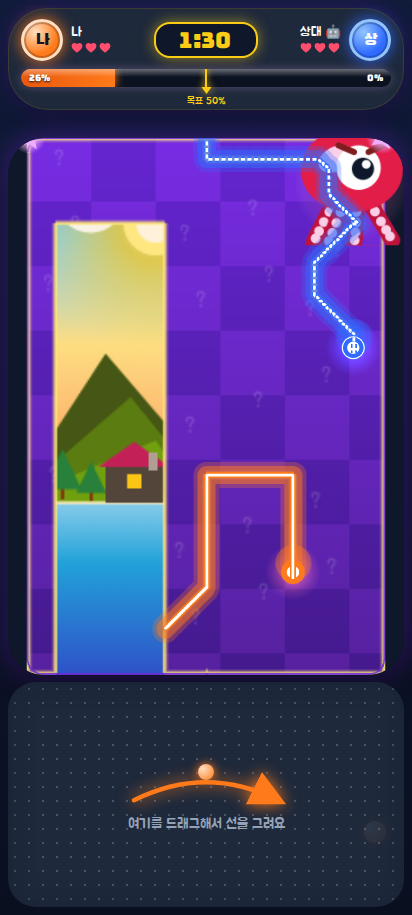
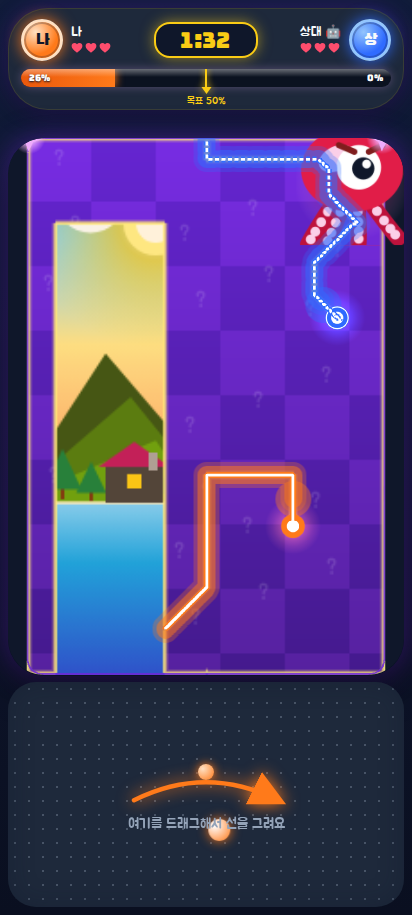
fix: stop the Graphics core short of the orb so the ring stays visible
Trim the last 10 CSS px of the opaque core so the cutter disc is not
painted over. Prefer near-orb samples that are both 14–36px glow and
in-band solid/white. Local trail e2e 30/30.

diff --git a/packages/client/src/main.ts b/packages/client/src/main.ts
@@ -1180,10 +1180,32 @@ class GameScene extends Phaser.Scene {
     gfx.clear();
     const orangeW = TRAIL_ORANGE_CSS;
     const whiteW = TRAIL_WHITE_CSS;
-    this.strokeTrailGfx(gfx, trail1, orangeW, AH.me, false);
+    this.strokeTrailGfx(gfx, this.trimTrailTip(trail1, 10), orangeW, AH.me, false);
     this.strokeTrailGfx(gfx, trail2, orangeW, AH.foe, true);
-    this.strokeTrailGfx(gfx, trail1, whiteW, 0xffffff, false);
+    this.strokeTrailGfx(gfx, this.trimTrailTip(trail1, 10), whiteW, 0xffffff, false);
     this.strokeTrailGfx(gfx, trail2, whiteW, 0xffffff, true);
+  }
+
+  /** Stop the core just short of the cutter so the orb ring stays measurable. */
+  private trimTrailTip(trail: { x: number; y: number }[], cssCut: number): { x: number; y: number }[] {
+    if (trail.length < 2) return trail;
+    const unit = this.boardImage?.scaleX || 1;
+    let remain = cssCut / unit;
+    const out = trail.map((p) => ({ x: p.x, y: p.y }));
+    while (out.length >= 2 && remain > 0) {
+      const a = out[out.length - 2];
+      const b = out[out.length - 1];
+      const len = Math.hypot(b.x - a.x, b.y - a.y);
+      if (len <= remain) {
+        remain -= len;
+        out.pop();
+      } else {
+        const t = (len - remain) / len;
+        out[out.length - 1] = { x: a.x + (b.x - a.x) * t, y: a.y + (b.y - a.y) * t };
+        remain = 0;
+      }
+    }
+    return out;
   }
 
   private strokeTrailGfx(

diff --git a/tests/e2e/cover-layout.spec.ts b/tests/e2e/cover-layout.spec.ts
@@ -440,11 +440,15 @@ async function measureRenderedTrail(page: Page): Promise<TrailMeasure> {
         cands.push({ solid, glow: best.glow, white, rgb, orange });
       }
       cands.sort((a, b) => {
+        const aGood =
+          a.glow >= 14 && a.glow <= 36 && a.white >= 1 && a.white <= 3.5 && a.solid >= 3 && a.solid <= 8.5 ? 0 : 1;
+        const bGood =
+          b.glow >= 14 && b.glow <= 36 && b.white >= 1 && b.white <= 3.5 && b.solid >= 3 && b.solid <= 8.5 ? 0 : 1;
         const aGlow = a.glow >= 14 && a.glow <= 36 ? 0 : 1;
         const bGlow = b.glow >= 14 && b.glow <= 36 ? 0 : 1;
         const aOk = a.white >= 1 && a.white <= 3.5 && a.solid >= 3 && a.solid <= 8.5 ? 0 : 1;
         const bOk = b.white >= 1 && b.white <= 3.5 && b.solid >= 3 && b.solid <= 8.5 ? 0 : 1;
-        return aGlow - bGlow || aOk - bOk || Math.abs(a.solid - 4) - Math.abs(b.solid - 4);
+        return aGood - bGood || aGlow - bGlow || aOk - bOk || Math.abs(a.solid - 4) - Math.abs(b.solid - 4);
       });
       const chosen = cands[0];
       if (chosen) {
